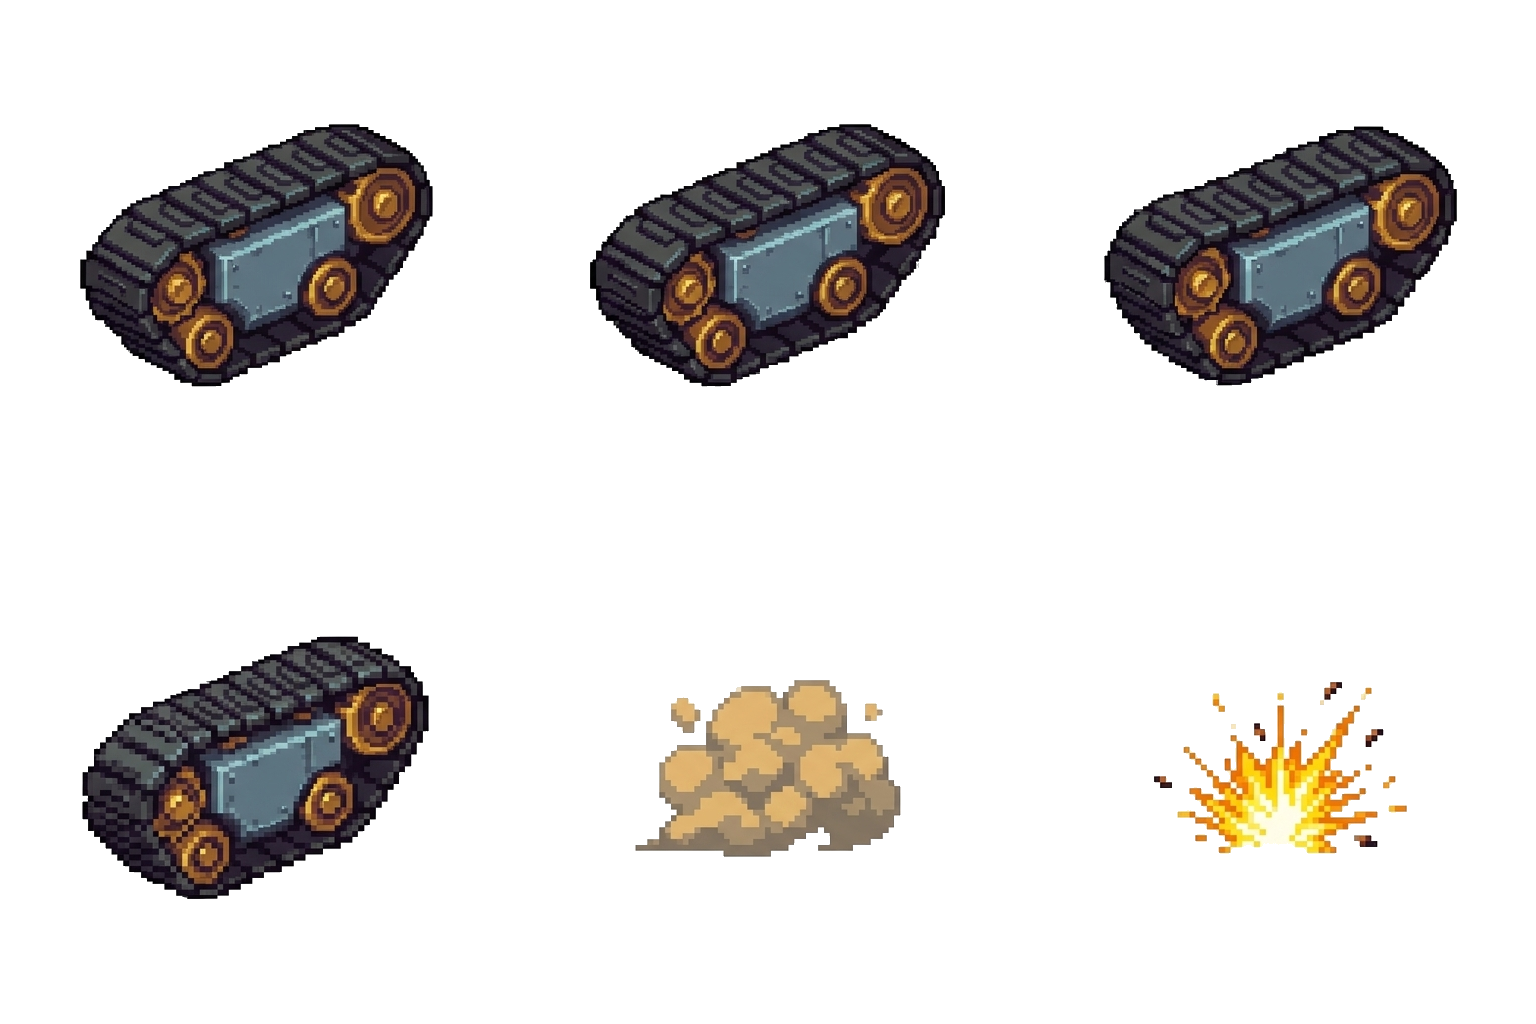
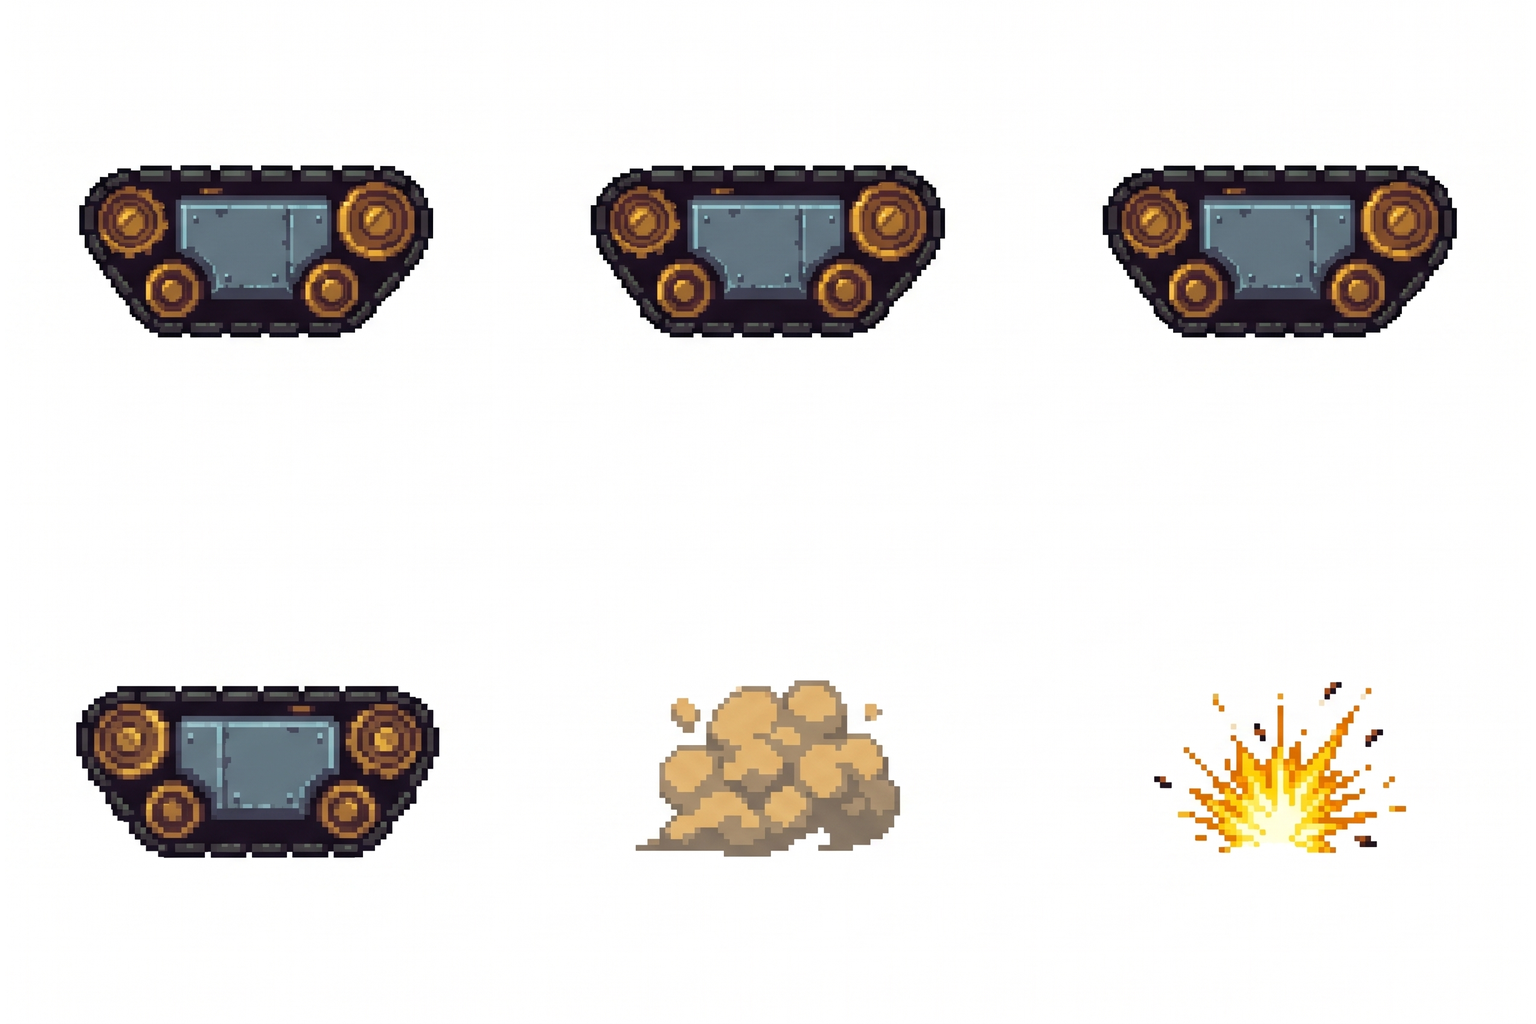
art(m11): Geschütz-Ketten neu in Seitenansicht (P0-14, art:gen) + Rig-Anpassung
Claude-Session: https://claude.ai/code/session_016nKYwojCP3mQDqREpBvGzN

diff --git a/src/dungeon/anim/rigs/turret.ts b/src/dungeon/anim/rigs/turret.ts
@@ -7,10 +7,8 @@ const clamp = (v: number, a: number, b: number): number => Math.max(a, Math.min(
 
 /** Länge der Schuss-Vorwarnung des Geschützes (enemyAi: `telegraphTimer = 0.46`). */
 const TURRET_TELEGRAPH = 0.46;
-/** Ketten-Sprites sind 40×30 px; verkleinert sitzen sie seitlich am 44-px-Sockel statt weit darunter hervorzuragen. */
-const TREAD_SCALE = 0.62;
-/** Die Ketten sind in Schrägansicht gezeichnet (steigen nach außen); diese Drehung legt sie waagerecht unter den Sockel. */
-const TREAD_LEVEL = 0.34;
+/** Ketten-Sprites (P0-14, Seitenansicht, 42×20 px): leicht verkleinert, damit sie unter dem 44-px-Sockel sitzen. */
+const TREAD_SCALE = 0.8;
 /** Rückstoß-Dauer nach dem Schuss (s). */
 const TURRET_RECOIL = 0.22;
 
@@ -91,8 +89,8 @@ function turretPose(e: Enemy, time: number, aimDx: number, aimDy: number): Pose 
   const fl = st.flinch, cr = st.crouch;
   return {
     base: { dy: -bob * 0.5 + 1.0 * cr, rot: rock, sy: 1 - 0.07 * cr, sx: 1 + 0.04 * cr },
-    treadL: { variant: treadVar, rot: TREAD_LEVEL, dy: bob * 0.3, sx: TREAD_SCALE, sy: TREAD_SCALE },
-    treadR: { variant: (treadVar + 2) % 4, rot: -TREAD_LEVEL, dy: bob * 0.3, sx: TREAD_SCALE, sy: TREAD_SCALE }, // gegenläufige Phase wirkt weniger „synchron“
+    treadL: { variant: treadVar, dy: bob * 0.3, sx: TREAD_SCALE, sy: TREAD_SCALE },
+    treadR: { variant: (treadVar + 2) % 4, dy: bob * 0.3, sx: TREAD_SCALE, sy: TREAD_SCALE }, // gegenläufige Phase wirkt weniger „synchron“
     dust: { hidden: !rolling, alpha: 0.5 * moving * (0.6 + 0.4 * Math.sin(time * 18 + e.id)), dx: clamp(-e.vx * 0.12, -6, 6), dy: clamp(-e.vy * 0.05, -2, 2), sx: 0.7 + 0.3 * moving, sy: 0.7 + 0.3 * moving },
     brake: { hidden: st.brake <= 0, alpha: st.brake / 0.18, sx: 0.6 + 0.4 * (1 - st.brake / 0.18), sy: 0.6 + 0.4 * (1 - st.brake / 0.18) },
     housing: {

diff --git a/SPRITE_QUEUE.md b/SPRITE_QUEUE.md
@@ -52,6 +52,7 @@ Wer im Code oder in einem Plan ein neues benötigtes Sprite, ein neues M11-Sheet
 | ID | Status | Zieldatei | Typ & Format | Referenz (`ImagePaths`) | Brief / Prompt | Notiz |
 | :--- | :---: | :--- | :--- | :--- | :--- | :--- |
 | `P0-13` | [x] | `art_source/rigs/turret_treads.png` | Typ G/E · 3×2 · `1536×1024` | `public/art/sprites/turret_0.png`, `art_source/rigs/turret_rig.png` | `ART_BRIEF_M11_ENEMIES.md` (Zusatz Geschütz-Antrieb) | ✅ 4 Rollphasen linke Raupenkette + Staubwolke + Bremsfunken (`min_margin ≥ 78 px`, `art:check` ok, bereit für Claude-Import) |
+| `P0-14` | [x] | `art_source/rigs/turret_treads.png` | Typ G/E · 3×2 · `1536×1024` — **ersetzt P0-13** | `art_source/rigs/turret_treads.png` (alt, Stil), `public/art/rigs/turret/base.png` | `ART_BRIEF_M11_ENEMIES.md` (Zusatz Geschütz-Antrieb v2) | ✅ erzeugt per `art:gen` (Claude, Geschütz-Rig), `art:check` ok, importiert (Ketten 42×20 px, Seitenansicht). Grund: P0-13 ist in Schrägansicht gezeichnet (Ketten stehen wie Beine ab / überlappen den Sockel); neu in **strenger Seitenansicht, waagerecht, flach** |
 | `P0-14` | [x] | `art_source/rigs/krall_torsos2.png` *(ersetzt die gelieferte Version, gleicher Dateiname)* | Typ S · 3×2 · `1536×1024` | `art_source/rigs/krall_torsos.png` *(Zelle 1 = Panzer-Rumpf = Maßstab, Zelle 5 = Skelettrahmen)*, bisheriges `krall_torsos2.png` | `ART_BRIEF_M11.md` §4.1 (Zusatz K-A2) | ✅ **Maßstab-Korrektur geliefert:** exakt im Panzer-Maßstab (`269 px` breit → Import exakt `84×100 px` wie `torso_1…6`, Kern im Fadenkreuz, `min_margin ≥ 35 px`, `art:check` ok; `t2k`-Übergang in `krall.ts` nach Re-Import entfernen) |
 | `P0-15` | [x] | `art_source/rigs/krall_arms_R4.png` | Typ L · 3×2 · `1536×1024` | `art_source/rigs/krall_arms_R.png`, `krall_arms_R2.png`, `krall_arms_R3.png` | `ART_BRIEF_M11.md` §4.1 (Zusatz K-F) | ✅ Rechte Greifzange VERBOGEN in den 6 übrigen Posen (seitlich · Block · Stampfer · Sog mit Funken · Hagel/Schrott · Teleskop voll; Schulterring im Fadenkreuz, `min_margin ≥ 34 px`, `art:check` ok) |
 | `P0-16` | [x] | `art_source/rigs/krall_arms_L4.png` | Typ L · 3×2 · `1536×1024` | `art_source/rigs/krall_arms_L.png`, `krall_arms_L2.png`, `krall_arms_L3.png` | `ART_BRIEF_M11.md` §4.1 (Zusatz K-F) | ✅ Linker Haken/Mini-Säge VERBOGEN in den 6 übrigen Posen (seitlich · Schild-Block · Stampfer · Sog mit Funken · Hagel/Schrott · Teleskop voll; Licht links-oben, Schulterring im Fadenkreuz, `min_margin ≥ 30 px`, `art:check` ok) |

diff --git a/ART_BRIEF_M11_ENEMIES.md b/ART_BRIEF_M11_ENEMIES.md
@@ -44,6 +44,8 @@ Spalten: **Zellen 1–6** (Reihenfolge = Prompt), **Gelenk** = was in der Zellmi
 ### Zusatz Geschütz-Antrieb (`turret_treads.png`, P0-13)
 Das Geschütz bewegt sich im Spiel (`scurry`), das Rig hat aber nur Sockel + Gehäuse → es würde gleiten. Zusatz-Sheet: Zellen 1–4 vier Rollphasen **einer linken Raupenkette** (Glieder wandern, rechte Kette spiegelt der Code), 5 kleine Staubwolke, 6 Bremsfunken/Rost-Spritzer. Zellmitte = Kettenmitte, 3/4-Draufsicht, Breite ≈ Sockel. Prompt-Vorschlag: „4 animation frames of one left caterpillar track unit of a small mobile turret, pixel art, same style/palette as the reference turret, white background, 3×2 grid: frames 1–4 track rolling, 5 small dust puff, 6 brake sparks and rust flakes; each centred in its cell“.
 
+**v2 (P0-14, ersetzt P0-13):** Die 3/4-Ansicht war falsch — Ketten ragten schräg unter dem Sockel hervor. Neu: **strenge Seitenansicht, waagerecht, flach**, Länge ≈ 30 % des Sockels, Zellmitte = Kettenmitte. Gleiche Zellenbelegung (1–4 Rollphasen, 5 Staub, 6 Bremsfunken).
+
 ### Sektor 1
 | Gegner (`kind`) · Referenz | Zellen 1–6 | Gelenk (Zellmitte) | Bewegung im Code |
 | :--- | :--- | :--- | :--- |

diff --git a/handoff/enemy_turret.md b/handoff/enemy_turret.md
@@ -7,3 +7,5 @@
 - **Offen:** visuelle Abnahme im echten Kampf; optional Sprites für echte Schadensstufen (Rauch/Funken/aufgerissenes Gehäuse) — würde in `SPRITE_QUEUE.md` (P3/P4) gehören, falls gewünscht.
 
 - **Fix Ketten (2026-11-27):** Ketten ragten als schräge 40×30-Platten weit unter dem Sockel hervor und überlappten ihn. Jetzt per Pose auf 62 % verkleinert und waagerecht gedreht (`TREAD_SCALE`/`TREAD_LEVEL` in `turret.ts`), Versatz ±9/+6 in `turret.json` → sitzen unter dem Sockel. Prüfung: `node scripts/rig-sheet.cjs turret` (Fall `turret` ergänzt; Dev-Server nach JSON-Änderung neu starten, sonst bleibt der Bogen leer). Sauberer wäre ein Re-Export der Ketten-Sprites in Seitenansicht (kleiner, waagerecht) — bei Bedarf in `SPRITE_QUEUE.md`.
+- **Ketten neu (P0-14, Regel 14/15):** Statt Code-Drehung/Verkleinern jetzt neues Sheet `turret_treads.png` in strenger Seitenansicht (per `npm run art:gen`, Rohbild `art_source/_raw/turret_treads2_raw.png`), importiert. Pose: nur `TREAD_SCALE = 0.8`, Versatz ±11/+8 in `turret.json`. Der frühere Fix (62 % + Drehung) ist damit ersetzt. Offen: Bewegung/Bremsfunken im echten Kampf ansehen (Funken-Position evtl. nachziehen).
+
